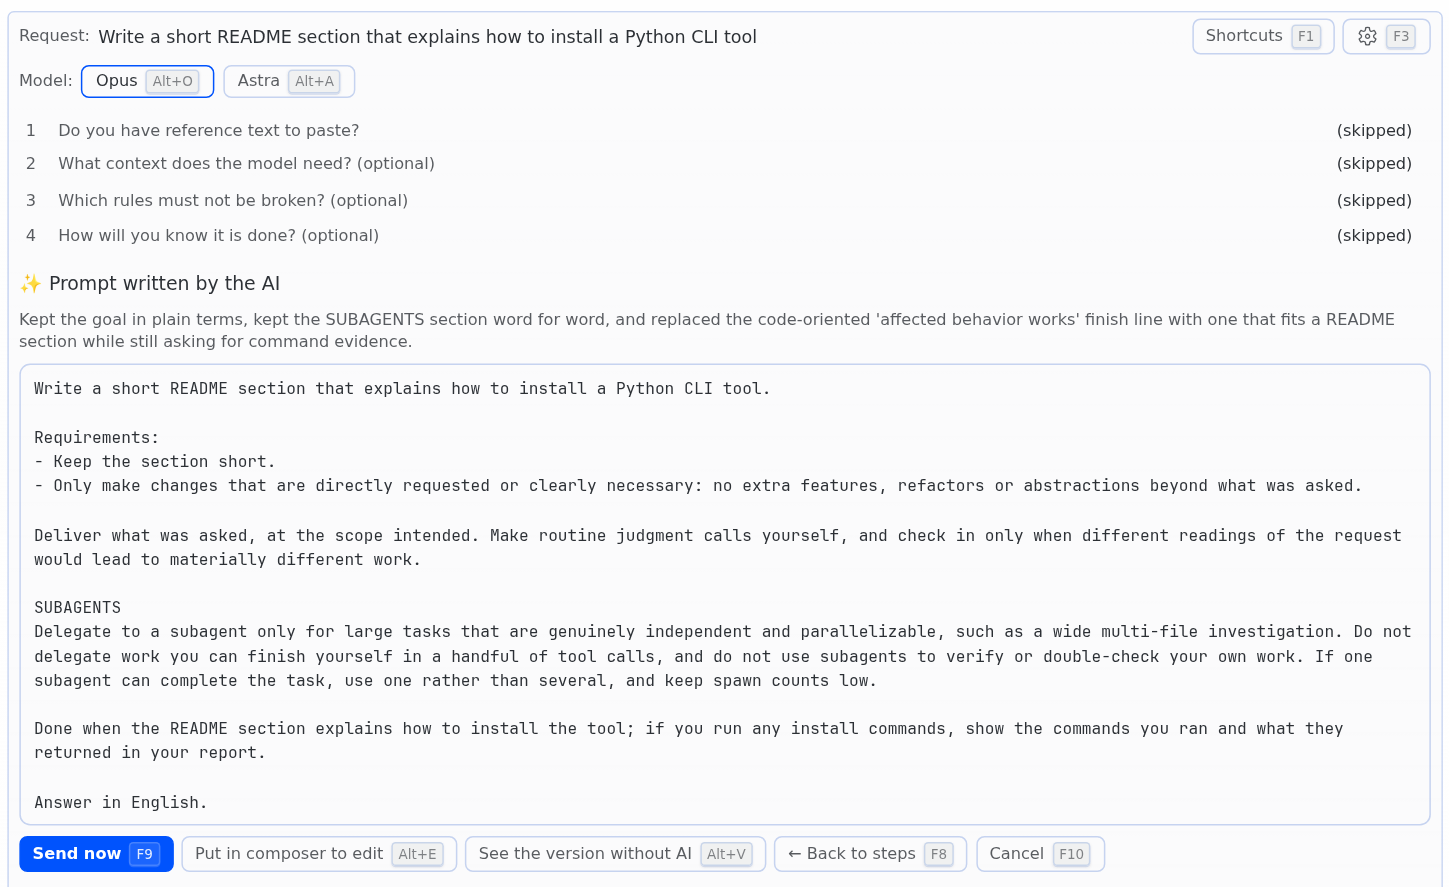
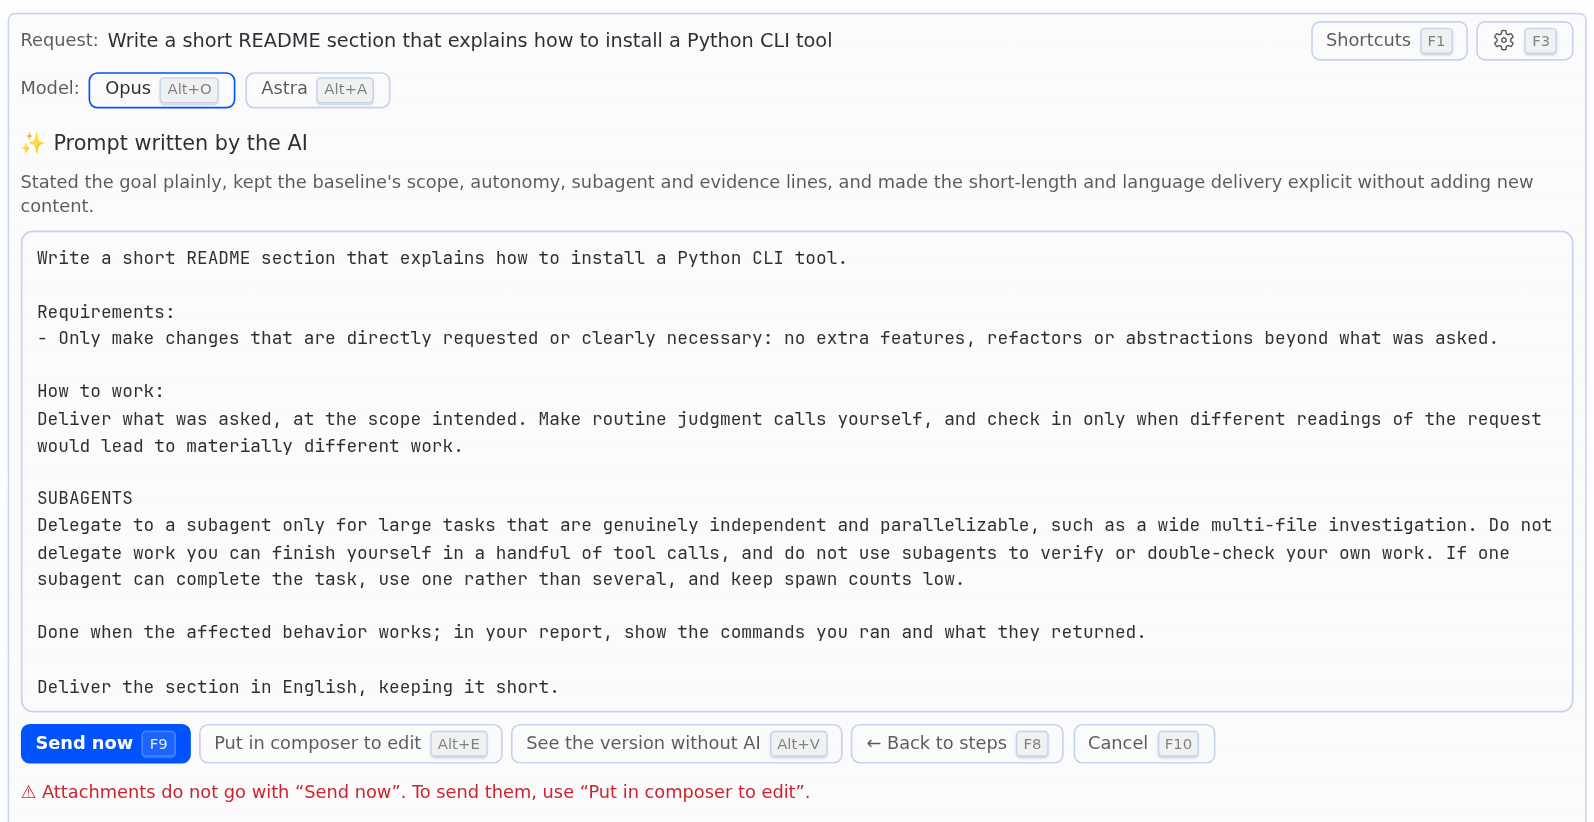
Prompt Studio 1.8.0: message field only through host.composer (Hermes Desktop 0.21.5+); README preview shows the attachments note (#12)

diff --git a/CHANGELOG.md b/CHANGELOG.md
@@ -2,14 +2,14 @@
 
 Versions come from the commit subjects; releases from 1.6.0 on are also git tags. Newest first.
 
-## Unreleased
+## 1.8.0
 
 - Desktop: the message field is read and written only through the SDK's `host.composer`; the plugin no longer
   reads or changes the app's DOM (catalog rule 8). This needs Hermes Desktop 0.21.5 or newer, so
   `requires_hermes` is now `>=0.21.5`; on an older Desktop the Studio does not open and asks you to update Hermes.
 - Attachments are no longer copied by the plugin (the SDK has no attachment API): they stay in the message field.
   **Put in composer to edit** keeps them with the prompt; **Send now** sends only the text, and the preview says so
-  in red.
+  in red. The README preview screenshot shows that note.
 - The draft is never lost while the Studio opens: switching conversations, disabling or reloading the plugin puts
   it back in its own conversation's message field (or the clipboard, or below the current draft, never over it).
 - Contributors: `AGENTS.md` now has the agent fire the Hermes `/review` itself and keep fixing the local Codex review

diff --git a/README.md b/README.md
@@ -109,7 +109,7 @@ after `git pull` to update.
 4. Generate. The preview shows the prompt; switch between the AI version and the version built without AI,
    then **Send now** (F9) to send it at once, or **Put in composer to edit** (Alt+E) to place it in the message field and edit it first.
 
-![The final prompt preview with the AI-written prompt and the Send now (F9), Put in composer to edit (Alt+E), See the version without AI, Back to steps and Cancel buttons](docs/images/step-preview.png)
+![The final prompt preview with the AI-written prompt, the Send now (F9), Put in composer to edit (Alt+E), See the version without AI, Back to steps and Cancel buttons, and the red note that attachments do not go with Send now](docs/images/step-preview.png)
 
 The AI mode (Auto, On request, Off) decides when step suggestions are requested.
 
